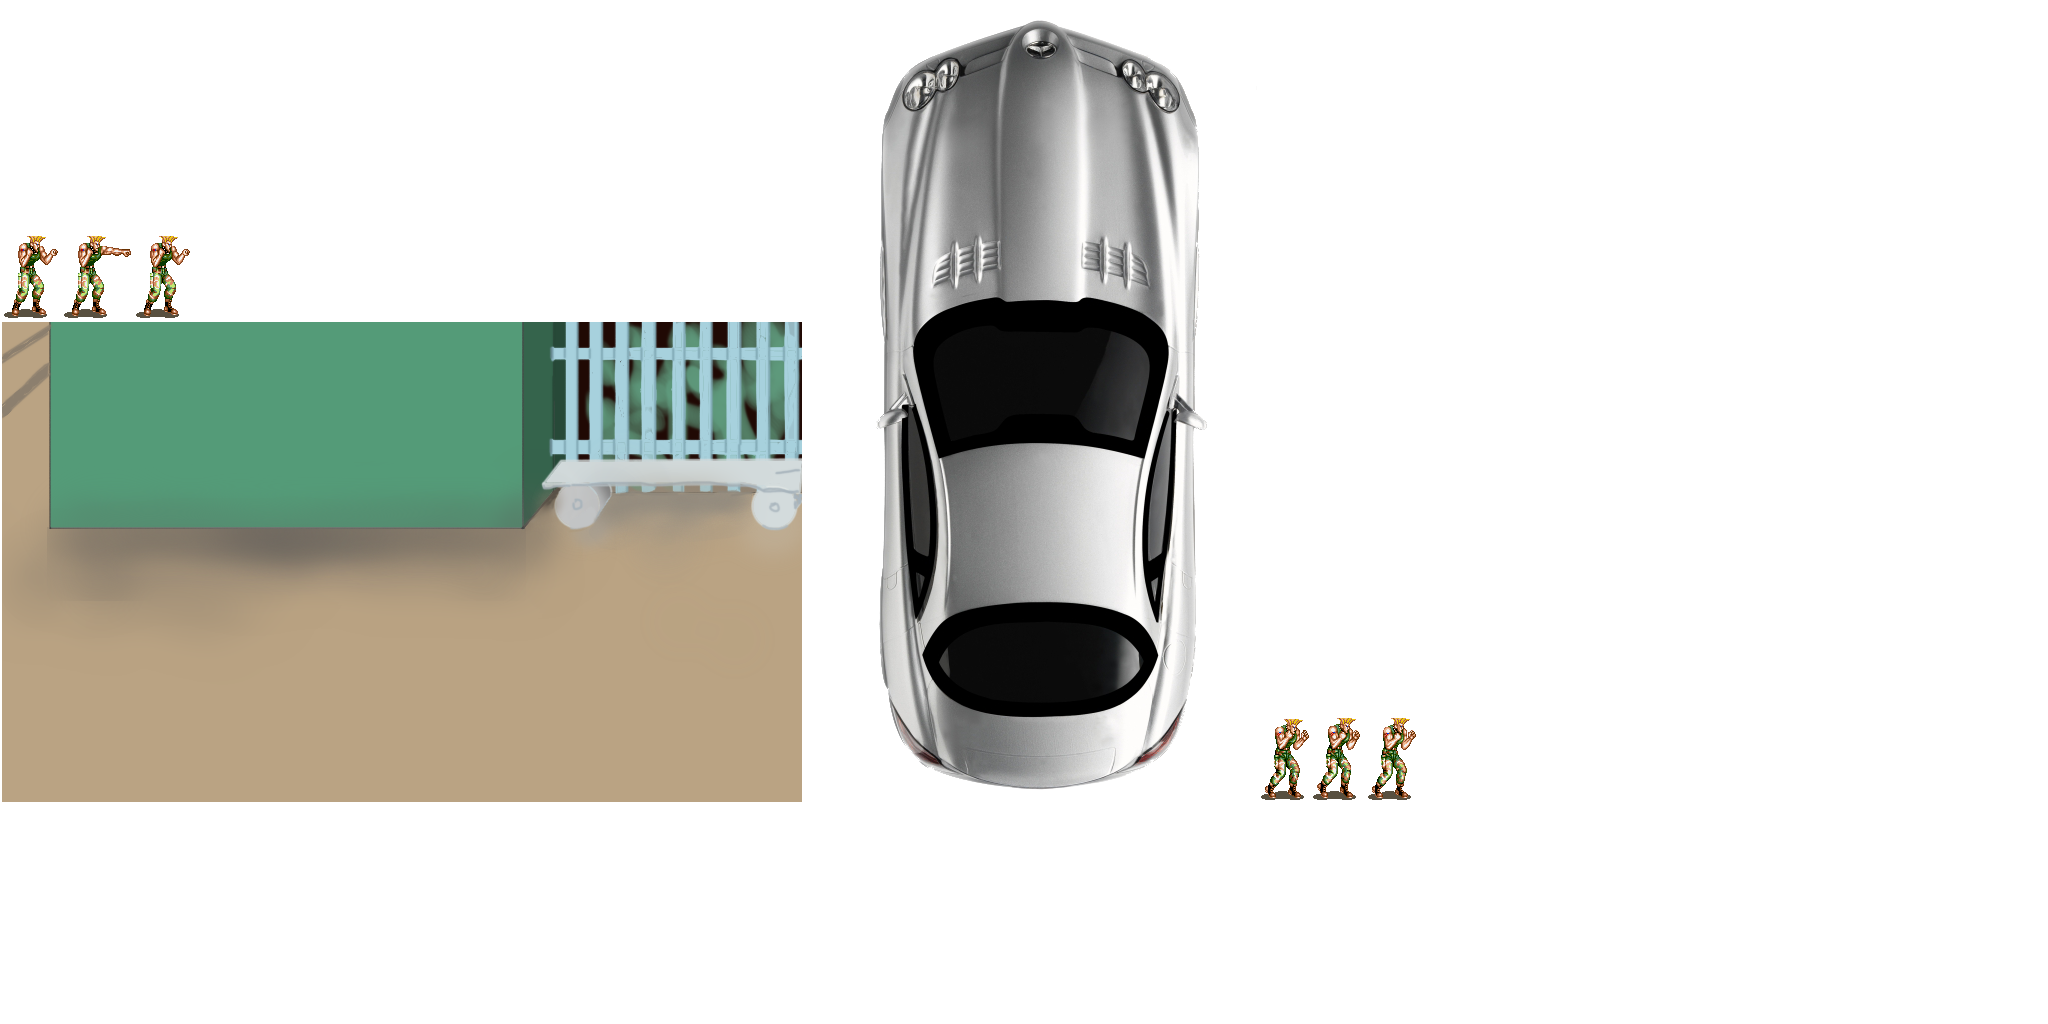
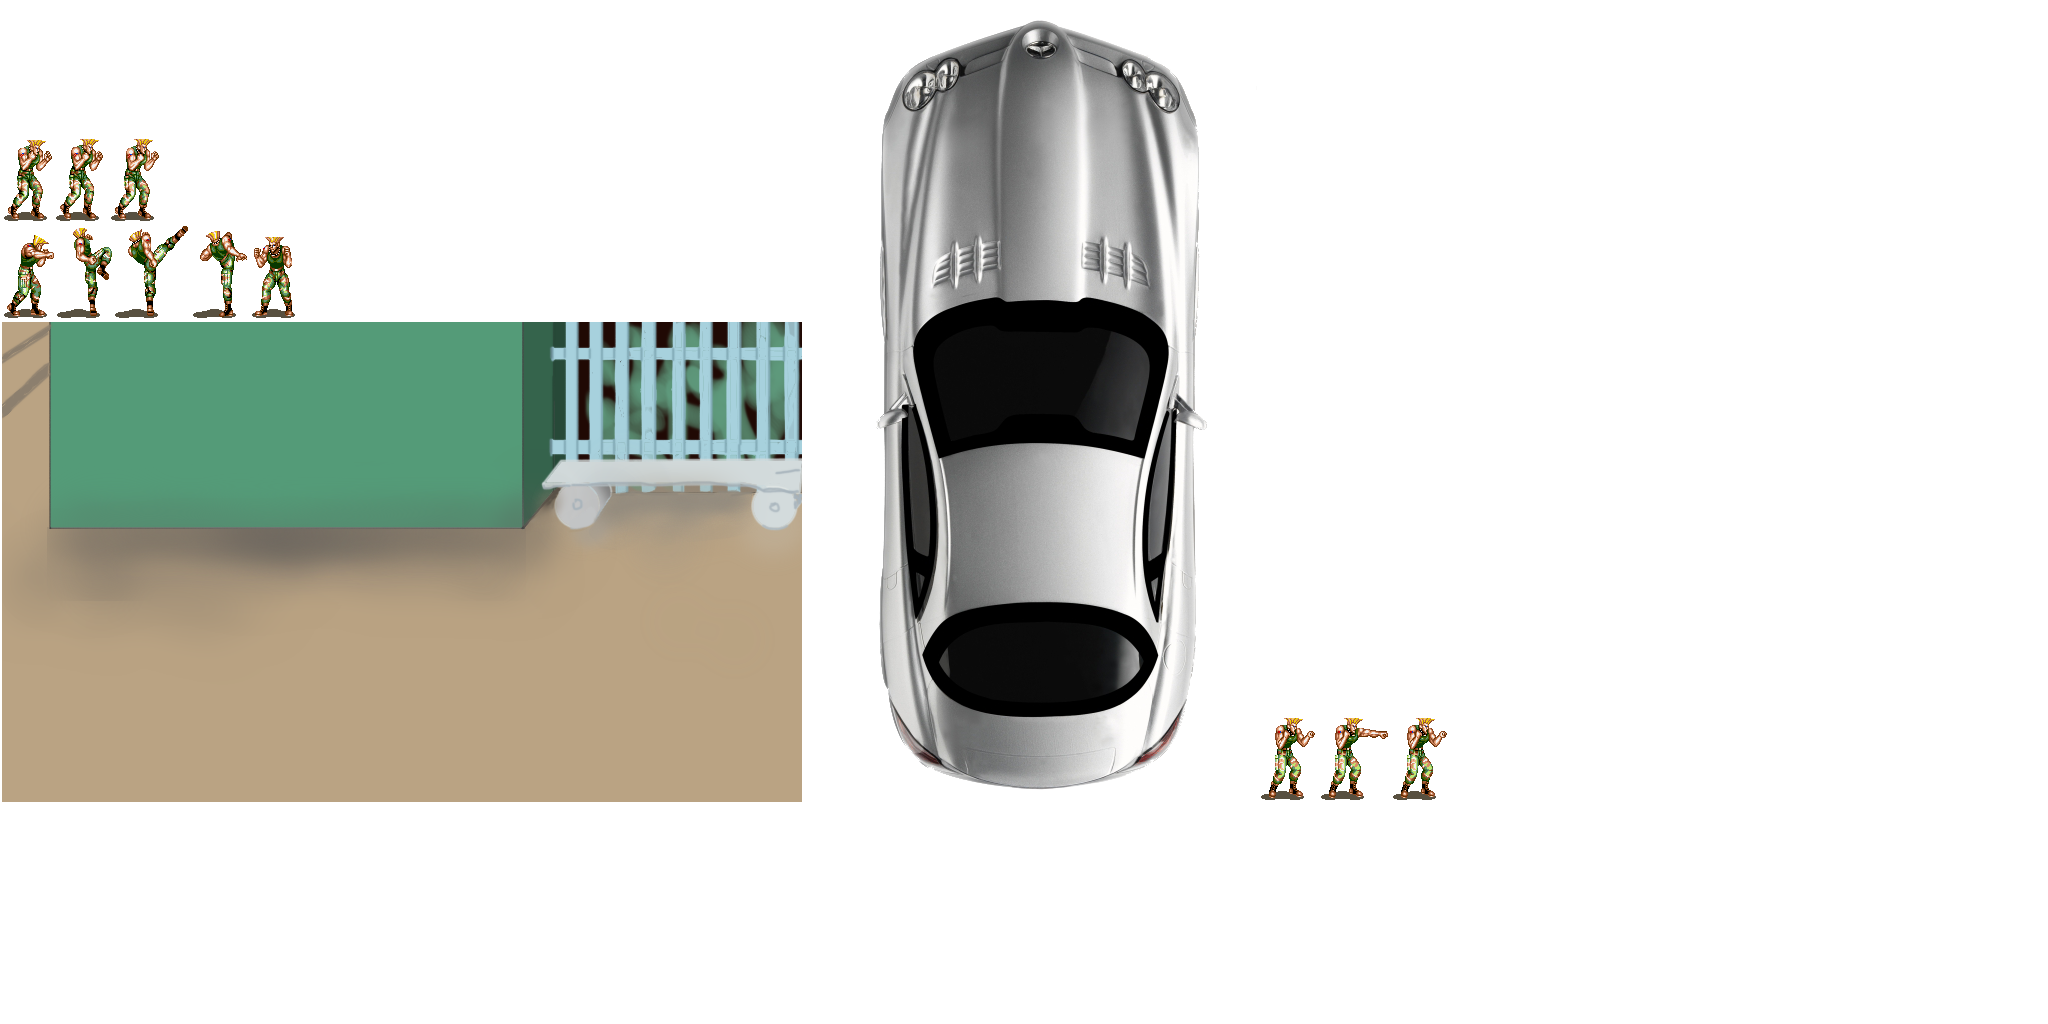
highKick was added

Changed region(s): [[0.0, 0.125, 0.1562, 0.3125], [0.5938, 0.6875, 0.7188, 0.7812]]

diff --git a/core/src/ru/fivestarter/dichlofos/jrpg/model/Guile.java b/core/src/ru/fivestarter/dichlofos/jrpg/model/Guile.java
@@ -12,20 +12,25 @@ public class Guile implements Character {
 
     public static final float IDLE_DURATION = 0.25f;
     public static final float PUNCH_DURATION = 0.15f;
+    public static final float HIGH_KICK_DURATION = 0.3f;
     private static final int UNIT_SCALE = 4;
     private final Animation<TextureRegion> idleAnimation;
     private final Animation<TextureRegion> punchAnimation;
+    private final Animation<TextureRegion> highKickAnimation;
 
     private final Sprite sprite;
     private float idleTime = 0f;
     private float punchDuration = 0f;
     private float punchTime = 0f;
+    private float highKickDuration = 0f;
+    private float highKickTime = 0f;
 
     private GuileController guileController;
 
     public Guile(TextureAtlas textureAtlas, int x, int y) {
         this.idleAnimation = createWalkAnimation(textureAtlas);
         this.punchAnimation = createPunchAnimation(textureAtlas);
+        this.highKickAnimation = createHighKickAnimation(textureAtlas);
         this.sprite = new Sprite();
         this.sprite.setPosition(x, y);
         this.guileController = new GuileController(this);
@@ -37,6 +42,9 @@ public class Guile implements Character {
         if (isPunching()) {
             punchDuration -= Gdx.graphics.getDeltaTime();
             animatePunch();
+        } else if (isHighKicking()){
+            highKickDuration -= Gdx.graphics.getDeltaTime();
+            animateHighKick();
         } else {
             animateIdle();
         }
@@ -46,14 +54,30 @@ public class Guile implements Character {
 
     @Override
     public void punch() {
-        if (!isPunching()) {
+        if (!isAction()) {
             punchTime = 0;
             punchDuration = PUNCH_DURATION * 2; // не понятно почему так
         }
     }
 
+    @Override
+    public void highKick() {
+        if (!isAction()) {
+            highKickTime = 0;
+            highKickDuration = HIGH_KICK_DURATION * 2; // не понятно почему так
+        }
+    }
+
+    private boolean isAction() {
+        return isPunching() || isHighKicking();
+    }
+
     private boolean isPunching() {
         return punchDuration > 0;
+    }
+
+    private boolean isHighKicking() {
+        return highKickDuration > 0;
     }
 
     private void animateIdle() {
@@ -66,6 +90,13 @@ public class Guile implements Character {
     private void animatePunch() {
         punchTime += Gdx.graphics.getDeltaTime();
         TextureRegion keyFrame = punchAnimation.getKeyFrame(punchTime);
+        sprite.setRegion(keyFrame);
+        sprite.setSize(keyFrame.getRegionWidth() * UNIT_SCALE, keyFrame.getRegionHeight() * UNIT_SCALE);
+    }
+
+    private void animateHighKick() {
+        highKickTime += Gdx.graphics.getDeltaTime();
+        TextureRegion keyFrame = highKickAnimation.getKeyFrame(highKickTime);
         sprite.setRegion(keyFrame);
         sprite.setSize(keyFrame.getRegionWidth() * UNIT_SCALE, keyFrame.getRegionHeight() * UNIT_SCALE);
     }
@@ -84,6 +115,17 @@ public class Guile implements Character {
         punchFrames[0] = new TextureRegion(punchRegion, 0, 0, 56, punchRegion.getRegionHeight());
         punchFrames[1] = new TextureRegion(punchRegion, 60, 0, 70, punchRegion.getRegionHeight());
         punchFrames[2] = new TextureRegion(punchRegion, 132, 0, punchRegion.getRegionWidth() - 132, punchRegion.getRegionHeight());
+
+        return new Animation<>(PUNCH_DURATION, new Array<>(punchFrames), Animation.PlayMode.LOOP_PINGPONG);
+    }
+    private Animation<TextureRegion> createHighKickAnimation(TextureAtlas textureAtlas) {
+        TextureAtlas.AtlasRegion highKickRegion = textureAtlas.findRegion("guileHighKick");
+        TextureRegion[] punchFrames = new TextureRegion[5];
+        punchFrames[0] = new TextureRegion(highKickRegion, 0, 0, 54, highKickRegion.getRegionHeight());
+        punchFrames[1] = new TextureRegion(highKickRegion, 53, 0, 57, highKickRegion.getRegionHeight());
+        punchFrames[2] = new TextureRegion(highKickRegion, 111, 0, 75, highKickRegion.getRegionHeight());
+        punchFrames[3] = new TextureRegion(highKickRegion, 189, 0, 56, highKickRegion.getRegionHeight());
+        punchFrames[4] = new TextureRegion(highKickRegion, 248, 0, highKickRegion.getRegionWidth() - 248, highKickRegion.getRegionHeight());
 
         return new Animation<>(PUNCH_DURATION, new Array<>(punchFrames), Animation.PlayMode.LOOP_PINGPONG);
     }

diff --git a/core/src/ru/fivestarter/dichlofos/jrpg/control/GuileController.java b/core/src/ru/fivestarter/dichlofos/jrpg/control/GuileController.java
@@ -15,6 +15,10 @@ public class GuileController {
     public void handle(){
         if (Gdx.input.isKeyPressed(Input.Keys.W)) {
             character.punch();
+            return;
+        }
+        if (Gdx.input.isKeyPressed(Input.Keys.E)) {
+            character.highKick();
         }
     }
 }

diff --git a/core/src/ru/fivestarter/dichlofos/jrpg/model/Character.java b/core/src/ru/fivestarter/dichlofos/jrpg/model/Character.java
@@ -2,4 +2,5 @@ package ru.fivestarter.dichlofos.jrpg.model;
 
 public interface Character {
     void punch();
+    void highKick();
 }
